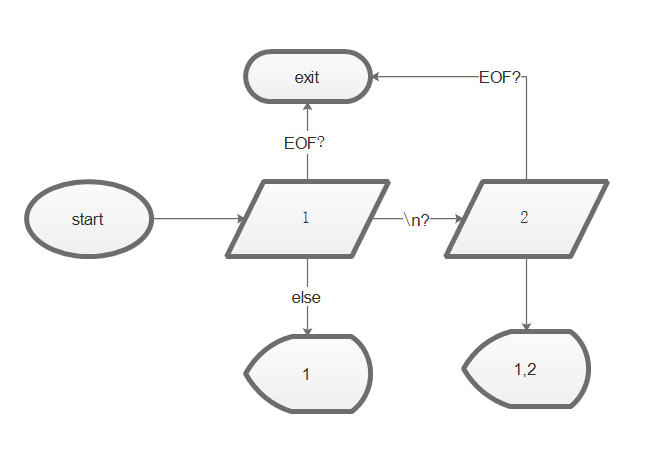
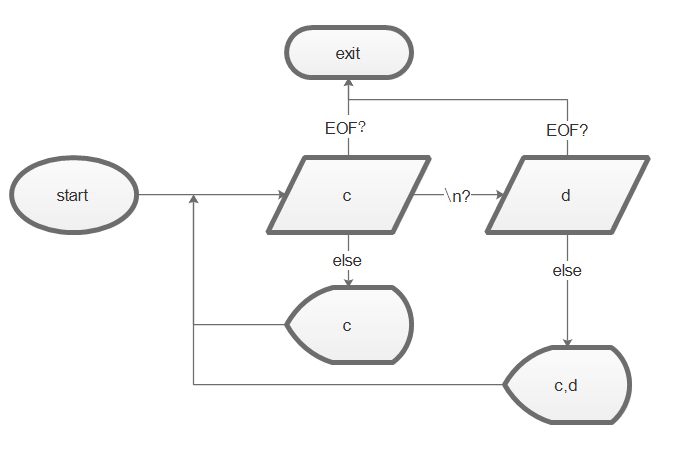
readme

diff --git a/README.md b/README.md
@@ -9,5 +9,9 @@ ODOA是換行字元
 ### C++
 ![](p1.png)
 ### Python
-
+換行切片,如果最後一行是1A就刪掉
+輸出,最後一行不送出換行
 ### Go
+換行切片,如果最後長度小於等於1就縮尾1
+輸出,最後一行不送出換行
+### Ruby
